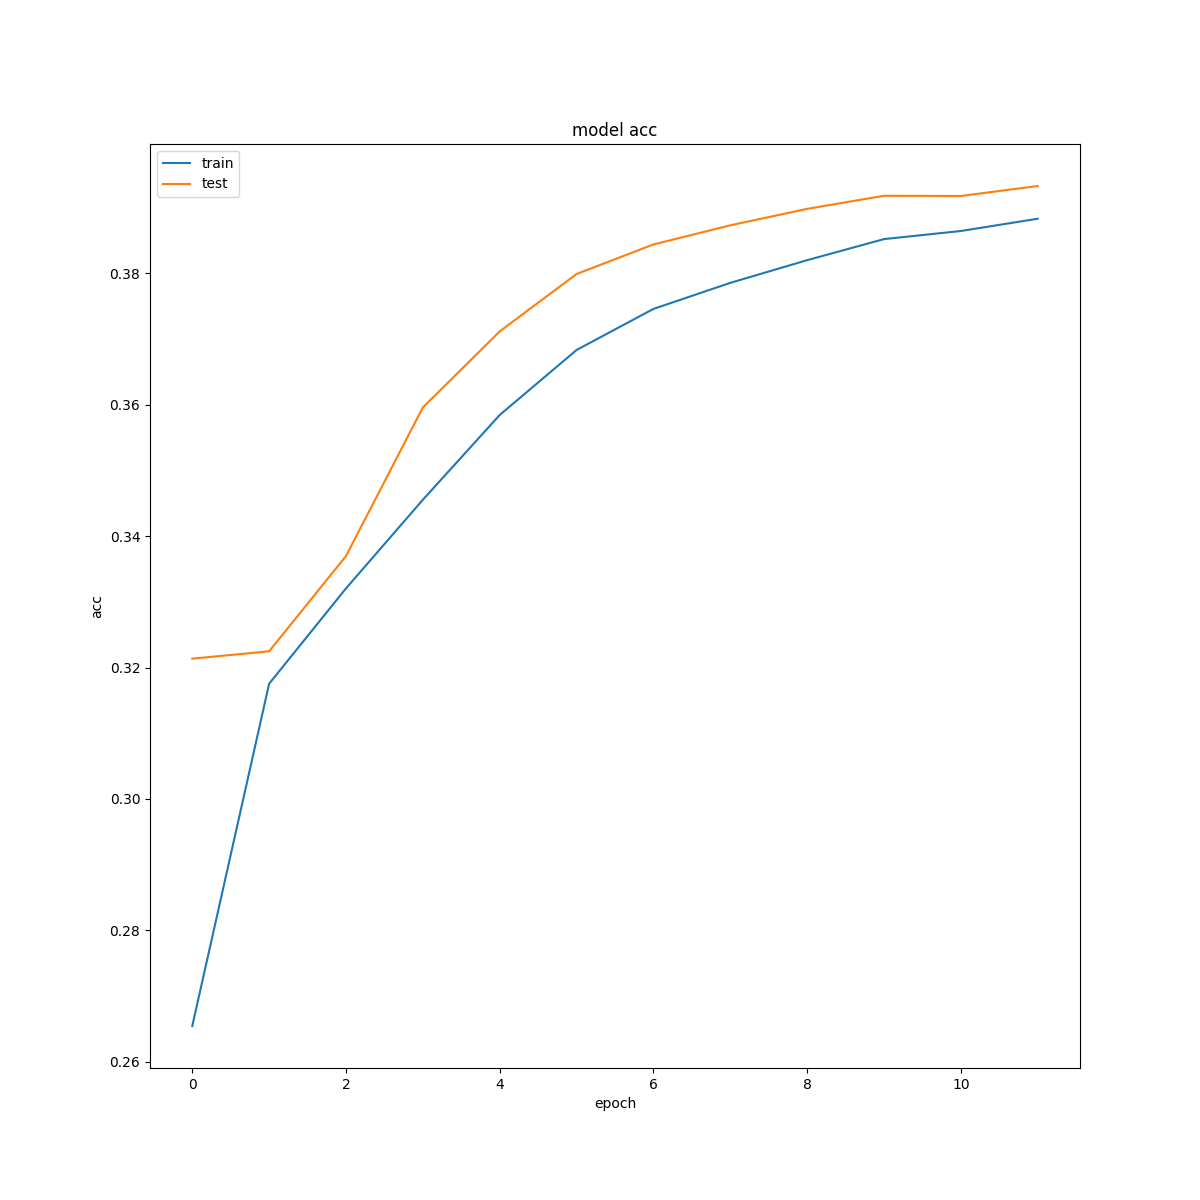
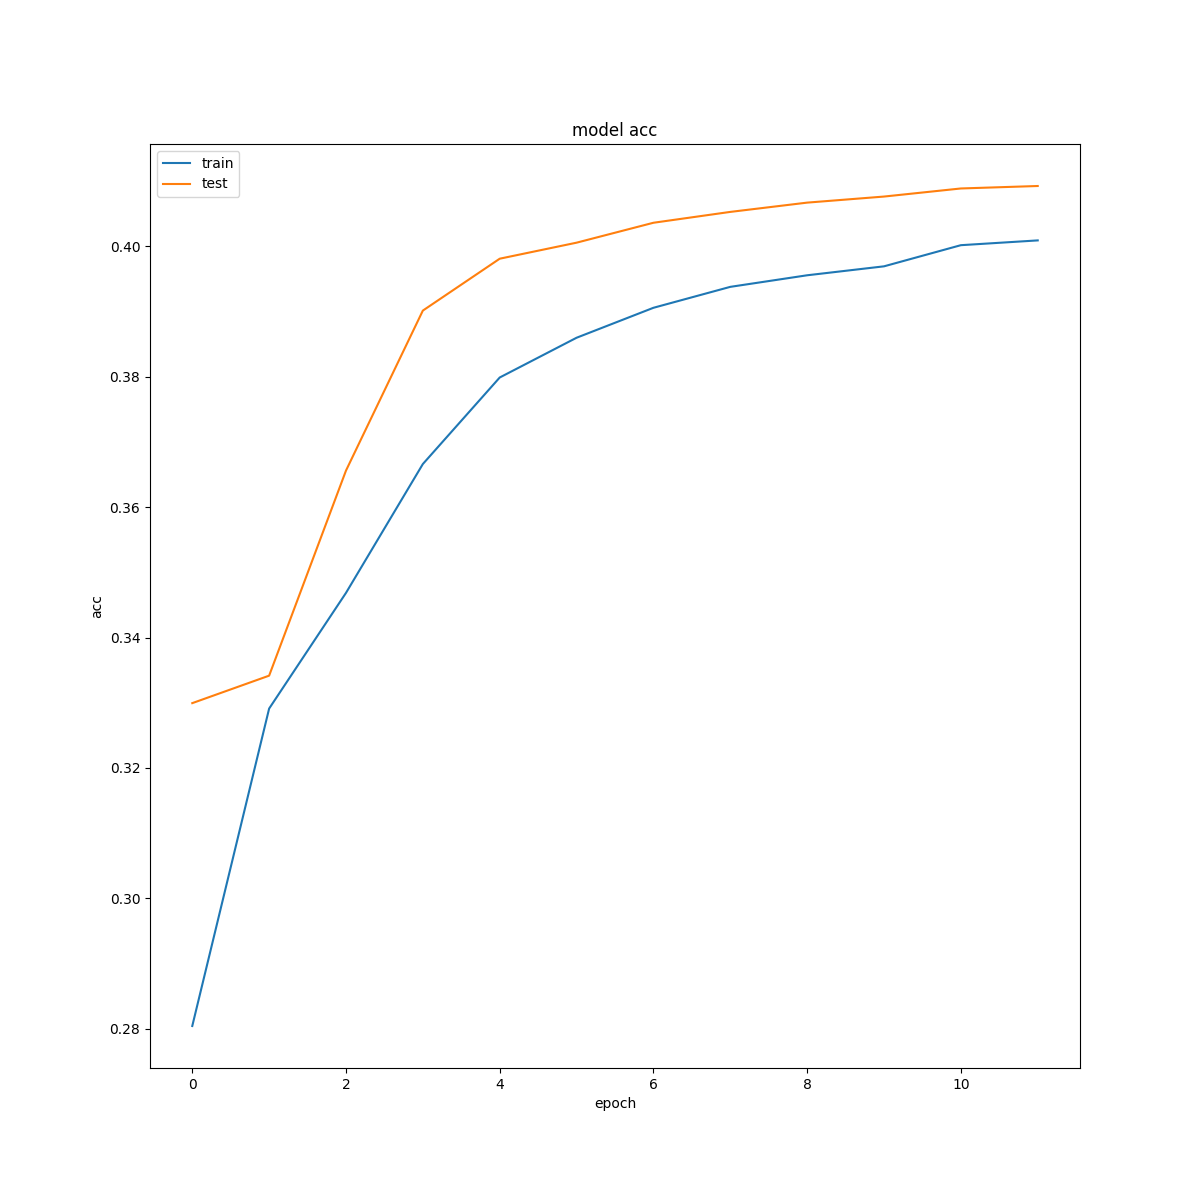
Sem overfitting

diff --git a/domain/next_poi_category_prediction_domain.py b/domain/next_poi_category_prediction_domain.py
@@ -75,7 +75,7 @@ class NextPoiCategoryPredictionDomain:
 
     def read_sequences(self, filename, n_splits, model_name, number_of_categories, step_size):
         # 7000
-        minimum = 60
+        minimum = 40
         max_size = 4000
         df = self.file_extractor.read_csv(filename)
         df['sequence'] = df['sequence'].apply(lambda e: self._sequence_to_list(e))
@@ -84,7 +84,7 @@ class NextPoiCategoryPredictionDomain:
         print(df['total'].describe())
         df = df.query("total >= " + str(minimum))
         print("usuarios com mais de " + str(minimum), len(df))
-        df = df.sample(n=900, random_state=0)
+        df = df.sample(n=1500, random_state=1)
         print(df)
 
         users_trajectories = df['sequence'].to_numpy()
@@ -100,6 +100,7 @@ class NextPoiCategoryPredictionDomain:
         max_country = 0
         max_distance = 0
         max_duration = 0
+        ids_remove = []
 
         for i in range(len(users_ids)):
 
@@ -114,11 +115,22 @@ class NextPoiCategoryPredictionDomain:
             # # verify if user visited all categories
             # categories_size = len(categories)
             # part = int(categories_size/5)
-            # first = pd.Series(categories[:int(categories_size/2)]).unique().tolist()
-            # second = pd.Series(categories[int(categories_size/2):]).unique().tolist()
-            # if len(first) != number_of_categories and len(second) != number_of_categories:
-            #     new_sequences.append([])
+            # first_index = part
+            # second_index = part*2
+            # third_index = part*3
+            # fourth_index = part*4
+            # fifth_index = categories_size
+            # first = pd.Series(categories[:first_index]).unique().tolist()
+            # second = pd.Series(categories[first_index:second_index]).unique().tolist()
+            # third = pd.Series(categories[second_index:third_index]).unique().tolist()
+            # fourth = pd.Series(categories[third_index:fourth_index]).unique().tolist()
+            # fifth = pd.Series(categories[fourth_index:fifth_index]).unique().tolist()
+            # if len(first) != number_of_categories or len(second) != number_of_categories or len(third) != number_of_categories \
+            #         or len(fourth) != number_of_categories or len(fifth) != number_of_categories:
+            #     x_list.append([])
+            #     y_list.append([])
             #     continue
+
             size = len(sequence)
             for j in range(size):
                 location_category_id = sequence[j][0]
@@ -137,8 +149,8 @@ class NextPoiCategoryPredictionDomain:
 
                 if distance > 50:
                     distance = 50
-                if duration > 48:
-                    duration = 48
+                if duration > 72:
+                    duration = 72
                 countries[country] = 0
                 if country > max_country:
                     max_country = country
@@ -170,40 +182,7 @@ class NextPoiCategoryPredictionDomain:
         df = df[['id', 'x', 'y']]
         df = df.sample(frac=1, random_state=1)
 
-        # df = self.file_extractor.read_csv(
-        #     "/media/claudio/Data/backup_linux/Documentos/pycharmprojects/masters_research/location_sequence_48hours_10mil_usuarios.csv")
-        # print("Colunas")
-        # print(df)
-        # # reindex ids
-        # df['id'] = np.array([i for i in range(len(df))])
-        # df['sequence'] = df['location_sequence'].apply(lambda e: self._sequence_to_list(e))
-        # users_ids = df['user_id'].tolist()
-        # sequences = df['sequence'].tolist()
-        # new_users_sequences = []
-        # for i in range(len(users_ids)):
-        #
-        #     user_id = users_ids[i]
-        #     sequence = sequences[i]
-        #     new_sequence = []
-        #     for j in range(len(sequence)):
-        #         hour = int(sequence[j][1])
-        #         location = int(sequence[j][2])
-        #         datatime_str = sequence[j][0]
-        #         datetime = dt.datetime.strptime(datatime_str, '%Y-%m-%d %H:%M:%S')
-        #         if datetime.weekday() < 5:
-        #             day_type = 0
-        #         else:
-        #             day_type = 1
-        #         new_sequence.append([location, hour, day_type, user_id])
-        #     new_users_sequences.append(new_sequence)
-        #
-        # df['sequence'] = np.array(new_users_sequences)
-
         print("paises: ", len(list(countries.keys())))
-
-        kf = KFold(n_splits=n_splits)
-        users_train_indexes = [None] * n_splits
-        users_test_indexes = [None] * n_splits
 
         # remove users that have few samples
         ids_remove_users = []
@@ -212,10 +191,22 @@ class NextPoiCategoryPredictionDomain:
         #x_list = [json.loads(x_list[i]) for i in range(len(x_list))]
         for i in range(df.shape[0]):
             user = x_list[i]
-            j = 0
             if len(user) < n_splits or len(user) < int(minimum/step_size):
                 ids_remove_users.append(ids_[i])
                 continue
+
+        # remove users that have few samples
+        df = df[['id', 'x', 'y']].query("id not in " + str(ids_remove_users))
+
+        x_users = df['x'].tolist()
+        kf = KFold(n_splits=n_splits)
+        users_train_indexes = [None] * n_splits
+        users_test_indexes = [None] * n_splits
+        for i in range(len(x_users)):
+            user = x_users[i]
+
+            j = 0
+
             for train_indexes, test_indexes in kf.split(user):
                 if users_train_indexes[j] is None:
                     users_train_indexes[j] = [train_indexes]
@@ -223,32 +214,25 @@ class NextPoiCategoryPredictionDomain:
                 else:
                     users_train_indexes[j].append(train_indexes)
                     users_test_indexes[j].append(test_indexes)
-                j+=1
-
+                j += 1
 
         print("treino", len(users_train_indexes))
-        print("fold 0: ", len(users_train_indexes[0][0]), len(users_test_indexes[0][0]))
-        print("fold 1: ", len(users_train_indexes[1][0]), len(users_test_indexes[1][0]))
-        print("fold 2: ", len(users_train_indexes[2][0]), len(users_test_indexes[2][0]))
-        print("fold 3: ", len(users_train_indexes[3][0]), len(users_test_indexes[3][0]))
-        print("fold 4: ", len(users_train_indexes[4][0]), len(users_test_indexes[4][0]))
+        print("fold 0: ", len(users_train_indexes[0][1]), len(users_test_indexes[0][1]))
+        print("fold 1: ", len(users_train_indexes[1][1]), len(users_test_indexes[1][1]))
+        print("fold 2: ", len(users_train_indexes[2][1]), len(users_test_indexes[2][1]))
+        print("fold 3: ", len(users_train_indexes[3][1]), len(users_test_indexes[3][1]))
+        print("fold 4: ", len(users_train_indexes[4][1]), len(users_test_indexes[4][1]))
 
-
-
-        # remove users that have few samples
-        df = df[['id', 'x', 'y']].query("id not in " + str(ids_remove_users))
         max_userid = len(df)
         print("Quantidade de usuários: ", len(df))
         # update users id
         df['id'] = np.array([i for i in range(len(df))])
         ids_list = df['id'].tolist()
-        x_list = df['x'].tolist()
+        x_list = x_users
         # print("ant")
         # print(x_list[0][0])
         # x_list = [json.loads(x_list[i]) for i in range(len(x_list))]
         y_list = df['y'].tolist()
-        print("ref")
-        print(y_list[0])
         #y_list = [json.loads(y_list[i]) for i in range(len(y_list))]
         for i in range(len(x_list)):
             sequences_list = x_list[i]
@@ -267,10 +251,6 @@ class NextPoiCategoryPredictionDomain:
         ids = df['id'].tolist()
         x = x_list
         y = y_list
-
-        print("final")
-        print(x[0])
-        print(df)
 
         users_trajectories = df.to_numpy()
         #users_trajectories = df
@@ -492,8 +472,8 @@ class NextPoiCategoryPredictionDomain:
         y_test_concat = []
         #users_list = users_list[:, 1]
         ids = users_list['ids']
-        x = users_list['x']
-        y = users_list['y']
+        x_list = users_list['x']
+        y_list = users_list['y']
 
         x_train_spatial = []
         x_train_temporal = []
@@ -524,10 +504,12 @@ class NextPoiCategoryPredictionDomain:
         for i in range(len(ids)):
             usuario_n +=1
             #print("usuario: ", usuario_n)
-            user_x = np.asarray(x[i])
-            user_y = np.asarray(y[i])
-            print("sgr")
-            print(user_x)
+            user_x = np.array(x_list[i])
+            user_y = np.array(y_list[i])
+            # print("sgr")
+            # print(user_x)
+            # print("train inde")
+            # print(users_train_indexes[i])
             X_train = list(user_x[users_train_indexes[i]])
             X_test = list(user_x[users_test_indexes[i]])
             y_train = list(user_y[users_train_indexes[i]])
@@ -598,8 +580,8 @@ class NextPoiCategoryPredictionDomain:
         # y_test = df_test['y_test'].tolist()
 
         # Remove hours. Currently training without events hour
-        y_train = remove_hour_from_sequence_y(y_train)
-        y_test = remove_hour_from_sequence_y(y_test)
+        # y_train = remove_hour_from_sequence_y(y_train)
+        # y_test = remove_hour_from_sequence_y(y_test)
 
         X_train, y_train = self._shuffle(X_train, y_train, seed)
         X_test, y_test = self._shuffle(X_test, y_test, seed)
